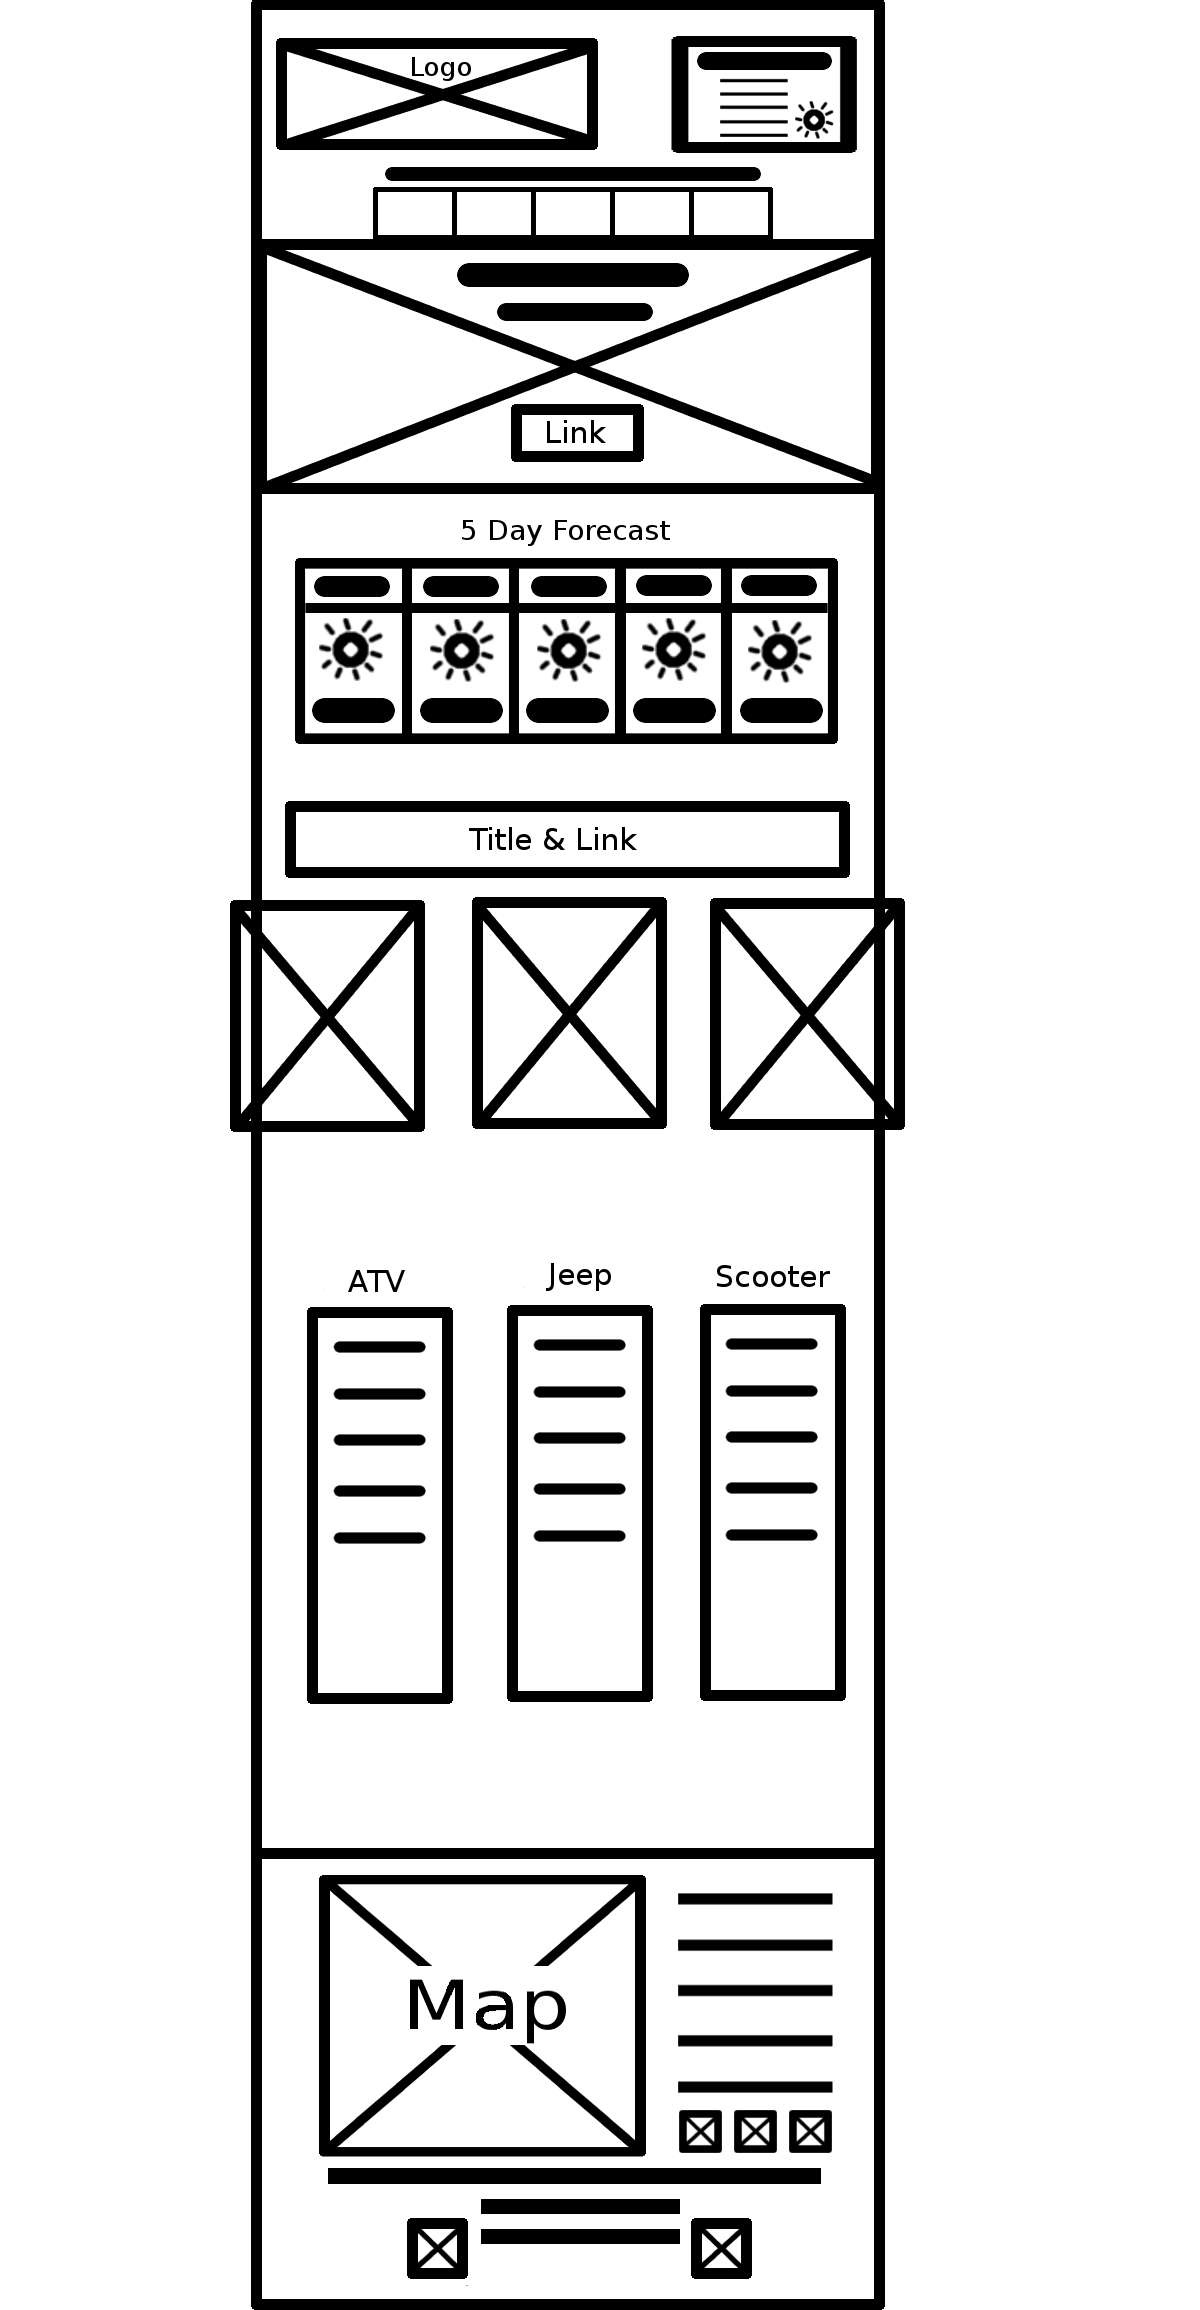
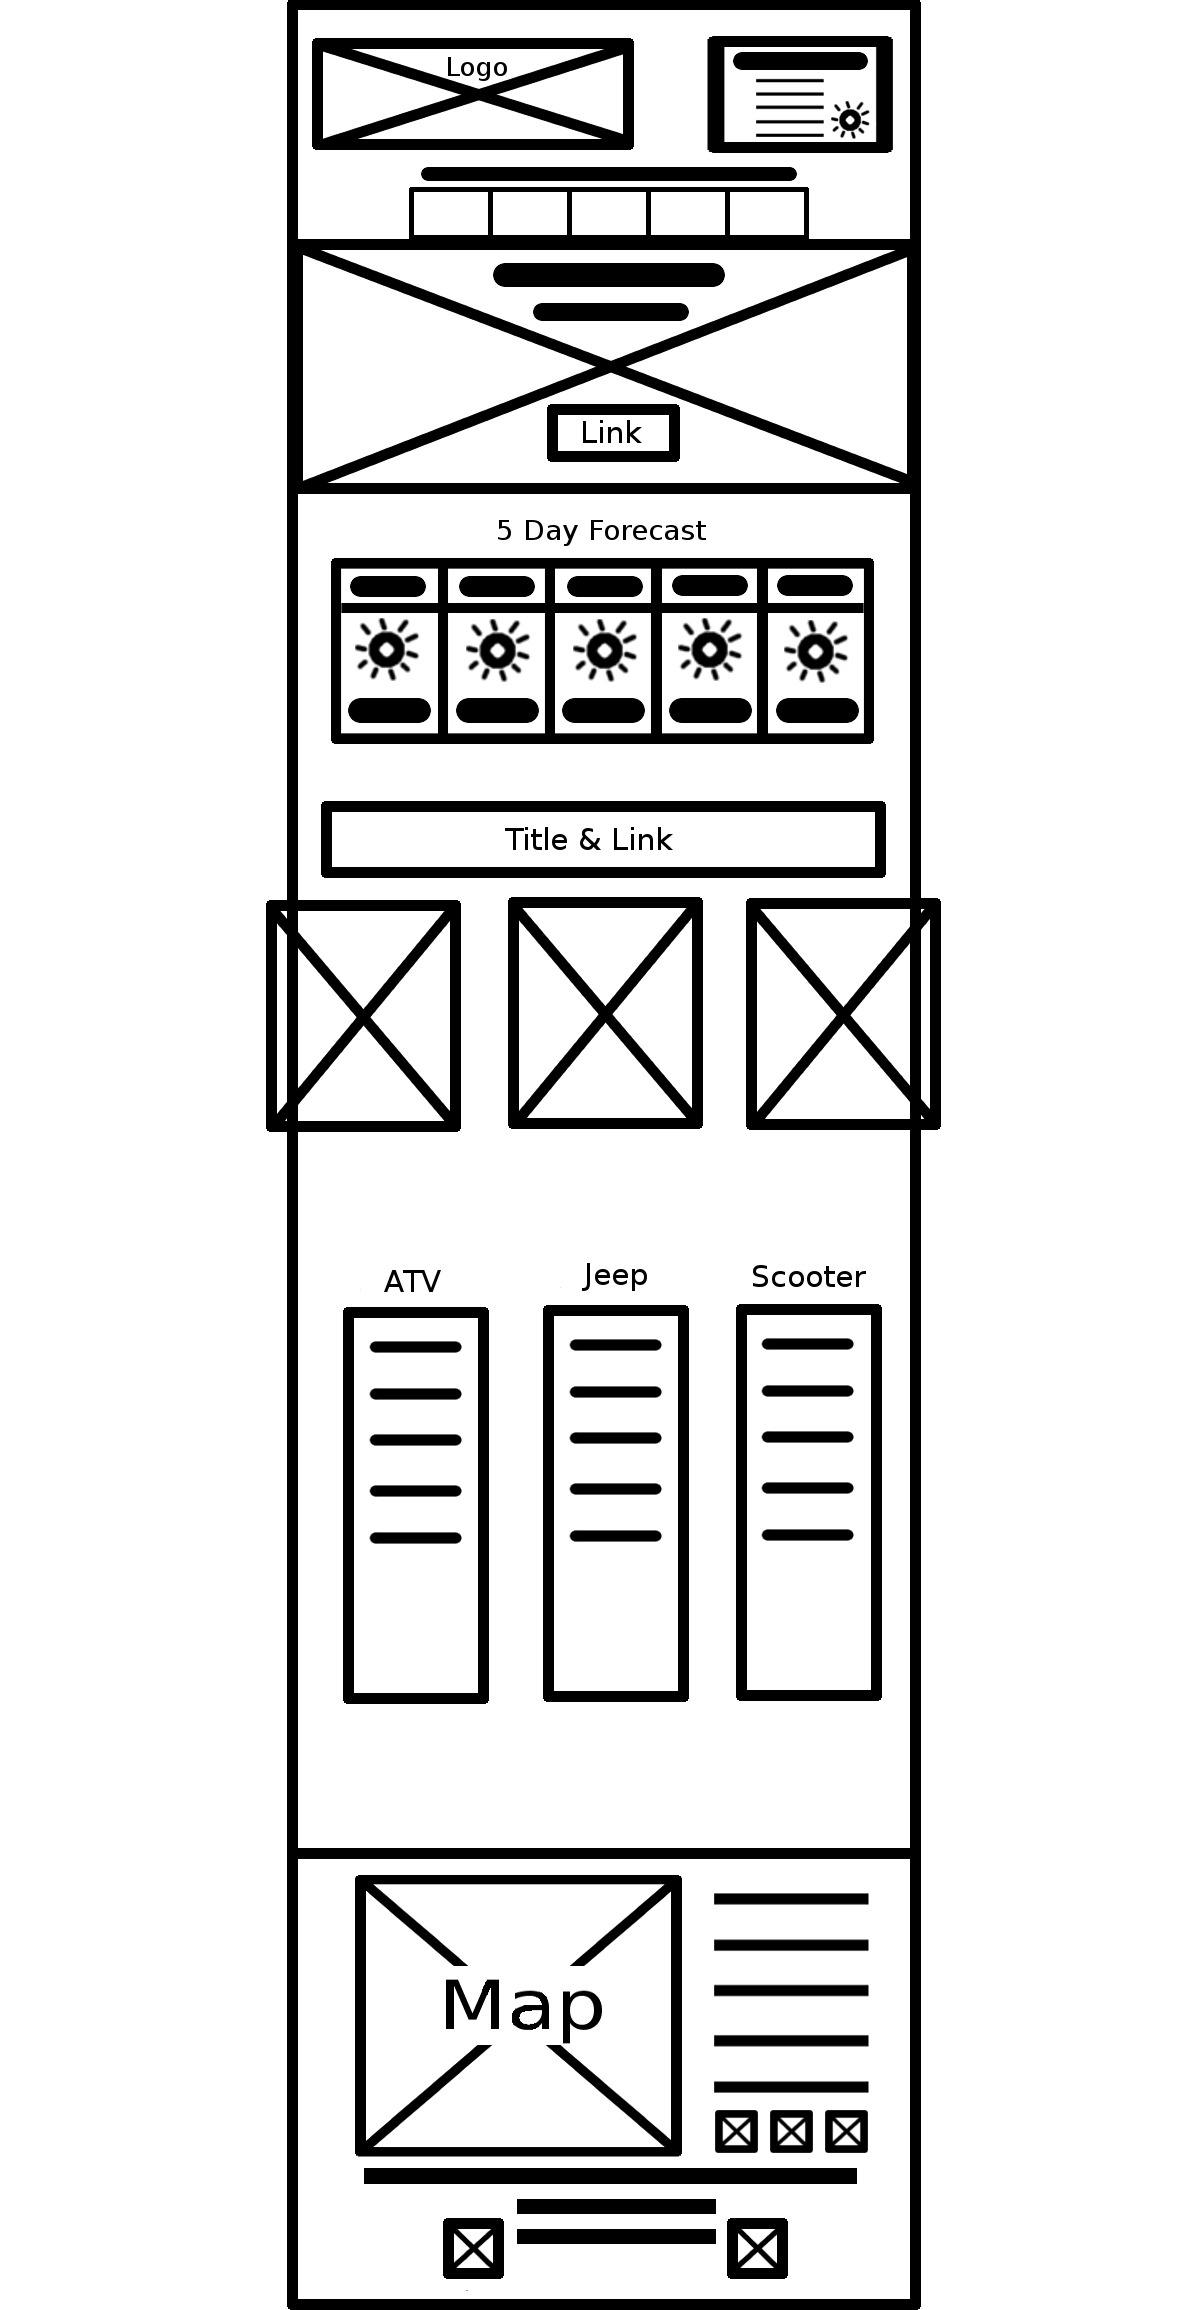
Update

diff --git a/XII_final_project_scoots/site_plan/wireframes.html b/XII_final_project_scoots/site_plan/wireframes.html
@@ -31,8 +31,34 @@
   </nav>
 
   <main class="grid-container two-up">
-   <h1>Home Page Wireframes</h1>
-   <img src="images/lg_home_wireframe.png" alt="image of the desktop homepage wireframe" class="wireframe">
+   <h1 class="wireframe_title">Large Screen Wireframes</h1>
+   <div class="wireframe_box">
+     <div>
+      <h2 class="top_w_t">Home</h2>
+      <h2 class="bttm_w_t">Page</h2>
+      <img src="images/lg_home_wireframe.png" alt="image of the desktop homepage wireframe" class="wireframe">
+    </div>
+    <div>
+      <h2 class="top_w_t">Rentals</h2>
+      <h2 class="bttm_w_t">Page</h2>
+      <img src="images/lg_rentals_wireframe.png" alt="image of the desktop homepage wireframe" class="wireframe">
+    </div>
+    <div>
+      <h2 class="top_w_t">Reservations</h2>
+      <h2 class="bttm_w_t">Page</h2>
+      <img src="images/lg_reservations_wireframe.png" alt="image of the desktop homepage wireframe" class="wireframe">
+    </div>
+    <div>
+      <h2 class="top_w_t">Tours</h2>
+      <h2 class="bttm_w_t">Page</h2>
+      <img src="images/lg_tours_wireframe.png" alt="image of the desktop homepage wireframe" class="wireframe">
+    </div>
+    <div>
+      <h2 class="top_w_t">Contact Us</h2>
+      <h2 class="bttm_w_t">Page</h2>
+      <img src="images/lg_contact_wireframe.png" alt="image of the desktop homepage wireframe" class="wireframe">
+    </div>
+  </div>
   </main>
   <footer>
     <p>

diff --git a/index.html b/index.html
@@ -91,17 +91,17 @@
                     </a>
                 </li>
                 <li>Lesson 06:
-                    <a href="https://byui.instructure.com/courses/180216/modules#module_2314711" target="_blank">
+                    <a href="https://jmmonjeremy.github.io/lesson-6/index.html">
                         Final Weather Site
                     </a>
                 </li>
                 <li>Lesson 06:
-                    <a href="https://byui.instructure.com/courses/180216/modules#module_2314711" target="_blank">
+                    <a href="https://jmmonjeremy.github.io/XII_final_project_scoots/site_plan/scoots_website_plan.html">
                         Final Website Project Start
                     </a>
                 </li>
                 <li>Lesson 07:
-                    <a href="https://byui.instructure.com/courses/180216/modules#module_2314713" target="_blank">
+                    <a href="https://jmmonjeremy.github.io/XII_final_project_scoots/index.html">
                         Final Website Project
                     </a>
                 </li>

diff --git a/XII_final_project_scoots/site_plan/css/plan_small.css b/XII_final_project_scoots/site_plan/css/plan_small.css
@@ -248,6 +248,34 @@ strong {
 .sole_span h2, .half1 h2 {
   text-align: center;
 }
-img.wireframe {
+/* Start for  WIREFRAME PAGE **********************************/
+h1.wireframe_title {
+  grid-column: 1/3;
+  grid-row: 1;  
+  text-align: center;
+  display: block;
   width: 100%;
+}
+div.wireframe_box h2 {
+  text-align: center;
+  font-size: 1.5rem;
+  margin-bottom: -20px; 
+}
+div.wireframe_box h2.top_w_t {
+  margin-bottom: -15px; 
+}
+div.wireframe_box h2.bttm_w_t {
+  margin-top: 0;
+}
+div.wireframe_box {
+  grid-column: 1/3;
+  grid-row: 2;
+  display: flex;
+  flex-wrap: wrap;
+  flex-direction: row;
+  justify-content: space-between;
+
+}
+.wireframe {
+  max-width: 250px;
 }
